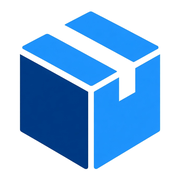
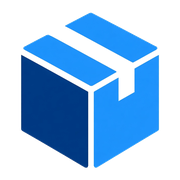
deploy: bd4a1fd8d03b22f38013a11d6f9fdf825d6175cc

diff --git a/index.html b/index.html
@@ -1,4 +1,4 @@
-<!DOCTYPE html><html lang="fr" data-astro-cid-sckkx6r4> <head><script type="module" src="https://unpkg.com/@fluentui/web-components@beta"></script><meta charset="UTF-8"><meta name="viewport" content="width=device-width"><link rel="icon" type="image/svg+xml" href="/favicon.svg"><link rel="icon" type="image/png" sizes="32x32" href="/favicon-32x32.png"><link rel="icon" type="image/png" sizes="16x16" href="/favicon-16x16.png"><link rel="apple-touch-icon" sizes="180x180" href="/apple-touch-icon.png"><meta name="generator" content="Astro v5.10.1"><title>Kits365 — Kits Power Platform pour TPE/PME</title><link rel="stylesheet" href="https://cdnjs.cloudflare.com/ajax/libs/font-awesome/6.5.1/css/all.min.css" integrity="sha512-DTOQO9RWCH3ppGqcWaEA1BIZOC6xxalwEsw9c2QQeAIftl+Vegovlnee1c9QX4TctnWMn13TZye+giMm8e2LwA==" crossorigin="anonymous" referrerPolicy="no-referrer"><link rel="stylesheet" href="/_astro/index.Ckoww14f.css">
+<!DOCTYPE html><html lang="fr" data-astro-cid-sckkx6r4> <head><script type="module" src="https://unpkg.com/@fluentui/web-components@beta"></script><meta charset="UTF-8"><meta name="viewport" content="width=device-width"><link rel="icon" type="image/svg+xml" href="/favicon.svg?v=2"><link rel="icon" type="image/png" sizes="32x32" href="/favicon-32x32.png?v=2"><link rel="icon" type="image/png" sizes="16x16" href="/favicon-16x16.png?v=2"><link rel="apple-touch-icon" sizes="180x180" href="/apple-touch-icon.png?v=2"><meta name="generator" content="Astro v5.10.1"><title>Kits365 — Kits Power Platform pour TPE/PME</title><link rel="stylesheet" href="https://cdnjs.cloudflare.com/ajax/libs/font-awesome/6.5.1/css/all.min.css" integrity="sha512-DTOQO9RWCH3ppGqcWaEA1BIZOC6xxalwEsw9c2QQeAIftl+Vegovlnee1c9QX4TctnWMn13TZye+giMm8e2LwA==" crossorigin="anonymous" referrerPolicy="no-referrer"><link rel="stylesheet" href="/_astro/index.Ckoww14f.css">
 <style>#background[data-astro-cid-mmc7otgs]{position:fixed;top:0;left:0;width:100%;height:100%;z-index:-1;filter:blur(100px)}#container[data-astro-cid-mmc7otgs]{font-family:Inter,Roboto,Helvetica Neue,Arial Nova,Nimbus Sans,Arial,sans-serif;height:100%}main[data-astro-cid-mmc7otgs]{height:100%;display:flex;justify-content:center}#hero[data-astro-cid-mmc7otgs]{display:flex;align-items:start;flex-direction:column;justify-content:center;padding:16px}h1[data-astro-cid-mmc7otgs]{font-size:22px;margin-top:.25em}#links[data-astro-cid-mmc7otgs]{display:flex;gap:16px}#links[data-astro-cid-mmc7otgs] a[data-astro-cid-mmc7otgs]{display:flex;align-items:center;padding:10px 12px;color:#111827;text-decoration:none;transition:color .2s}#links[data-astro-cid-mmc7otgs] a[data-astro-cid-mmc7otgs]:hover{color:#4e5056}#links[data-astro-cid-mmc7otgs] a[data-astro-cid-mmc7otgs] svg[data-astro-cid-mmc7otgs]{height:1em;margin-left:8px}#links[data-astro-cid-mmc7otgs] a[data-astro-cid-mmc7otgs].button{color:#fff;background:linear-gradient(83.21deg,#3245ff,#bc52ee);box-shadow:inset 0 0 0 1px #ffffff1f,inset 0 -2px #0000003d;border-radius:10px}#links[data-astro-cid-mmc7otgs] a[data-astro-cid-mmc7otgs].button:hover{color:#e6e6e6;box-shadow:none}pre[data-astro-cid-mmc7otgs]{font-family:ui-monospace,Cascadia Code,Source Code Pro,Menlo,Consolas,DejaVu Sans Mono,monospace;font-weight:400;background:linear-gradient(14deg,#d83333,#f041ff);-webkit-background-clip:text;-webkit-text-fill-color:transparent;background-clip:text;margin:0}h2[data-astro-cid-mmc7otgs]{margin:0 0 1em;font-weight:400;color:#111827;font-size:20px}p[data-astro-cid-mmc7otgs]{color:#4b5563;font-size:16px;line-height:24px;letter-spacing:-.006em;margin:0}code[data-astro-cid-mmc7otgs]{display:inline-block;background:linear-gradient(66.77deg,#f3cddd,#f5cee7) padding-box,linear-gradient(155deg,#d83333,#f041ff 18%,#f5cee7 45%) border-box;border-radius:8px;border:1px solid transparent;padding:6px 8px}.box[data-astro-cid-mmc7otgs]{padding:16px;background:#fff;border-radius:16px;border:1px solid white}#news[data-astro-cid-mmc7otgs]{position:absolute;bottom:16px;right:16px;max-width:300px;text-decoration:none;transition:background .2s;backdrop-filter:blur(50px)}#news[data-astro-cid-mmc7otgs]:hover{background:#ffffff8c}@media screen and (max-height: 368px){#news[data-astro-cid-mmc7otgs]{display:none}}@media screen and (max-width: 768px){#container[data-astro-cid-mmc7otgs]{display:flex;flex-direction:column}#hero[data-astro-cid-mmc7otgs]{display:block;padding-top:10%}#links[data-astro-cid-mmc7otgs]{flex-wrap:wrap}#links[data-astro-cid-mmc7otgs] a[data-astro-cid-mmc7otgs].button{padding:14px 18px}#news[data-astro-cid-mmc7otgs]{right:16px;left:16px;bottom:2.5rem;max-width:100%}h1[data-astro-cid-mmc7otgs]{line-height:1.5}}
 </style></head> <body data-astro-cid-sckkx6r4> <header class="bg-gray-800 text-white py-4" data-astro-cid-3ef6ksr2> <div class="container mx-auto px-4 flex justify-between items-center" data-astro-cid-3ef6ksr2> <div class="text-sm" data-astro-cid-3ef6ksr2> <a href="https://www.linkedin.com/company/141753953/" target="_blank" class="hover:underline" data-astro-cid-3ef6ksr2>Suivez-nous sur LinkedIn</a> </div> <div data-astro-cid-3ef6ksr2> <a href="mailto:contact@kits365.fr" class="text-white font-medium mr-4" data-astro-cid-3ef6ksr2>Contact</a> <a href="/projects" class="text-white font-medium" data-astro-cid-3ef6ksr2>Nos kits</a> </div> </div> </header>   <div class="min-h-screen bg-gray-50" data-astro-cid-mmc7otgs> <!-- Hero Section - Full Width --> <section class="w-full bg-white shadow-sm" data-astro-cid-mmc7otgs> <div class="container mx-auto px-4 py-16 md:py-24" data-astro-cid-mmc7otgs> <div class="max-w-3xl mx-auto text-center" data-astro-cid-mmc7otgs> <h1 class="text-4xl md:text-5xl font-bold text-gray-900 mb-4" data-astro-cid-mmc7otgs>Kits365</h1> <p class="text-xl text-gray-600" data-astro-cid-mmc7otgs>Kits Power Platform pour TPE/PME</p> </div> </div> </section> <!-- Skills Section - Alternate Background --> <section class="w-full bg-gray-100" data-astro-cid-mmc7otgs> <div class="container mx-auto px-4 py-16" data-astro-cid-mmc7otgs> <h2 class="text-2xl md:text-3xl font-bold text-gray-900 mb-8 text-center" data-astro-cid-mmc7otgs>Microsoft Expertise</h2> <div class="grid grid-cols-1 md:grid-cols-2 lg:grid-cols-4 gap-6 max-w-6xl mx-auto" data-astro-cid-mmc7otgs> <div class="bg-white p-6 rounded-lg shadow-sm" data-astro-cid-mmc7otgs> <h3 class="font-semibold text-lg text-gray-900 mb-2" data-astro-cid-mmc7otgs>Fabric</h3> <p class="text-gray-600" data-astro-cid-mmc7otgs>Data analytics and business intelligence</p> </div> <div class="bg-white p-6 rounded-lg shadow-sm" data-astro-cid-mmc7otgs> <h3 class="font-semibold text-lg text-gray-900 mb-2" data-astro-cid-mmc7otgs>Power Automate</h3> <p class="text-gray-600" data-astro-cid-mmc7otgs>Business automation</p> </div> <div class="bg-white p-6 rounded-lg shadow-sm" data-astro-cid-mmc7otgs> <h3 class="font-semibold text-lg text-gray-900 mb-2" data-astro-cid-mmc7otgs>Power Apps</h3> <p class="text-gray-600" data-astro-cid-mmc7otgs>App development</p> </div> <div class="bg-white p-6 rounded-lg shadow-sm" data-astro-cid-mmc7otgs> <h3 class="font-semibold text-lg text-gray-900 mb-2" data-astro-cid-mmc7otgs>SharePoint</h3> <p class="text-gray-600" data-astro-cid-mmc7otgs>Content management and collaboration</p> </div> </div> </div> </section> <!-- Projects Section --> <section class="w-full bg-white" data-astro-cid-mmc7otgs> <div class="container mx-auto px-4 py-16" data-astro-cid-mmc7otgs> <h2 class="text-2xl md:text-3xl font-bold text-gray-900 mb-8 text-center" data-astro-cid-mmc7otgs>Kits phares</h2> <div class="grid grid-cols-1 md:grid-cols-2 lg:grid-cols-3 gap-8 max-w-6xl mx-auto" data-astro-cid-mmc7otgs> <div class="bg-gray-50 rounded-lg overflow-hidden shadow-sm hover:shadow-md transition duration-300" data-astro-cid-mmc7otgs> <div class="h-48 bg-gray-200" data-astro-cid-mmc7otgs> <img src="../../public/project-cover.jpg" alt="Power Apps Onboarding App for HR" class="w-full h-full object-cover" data-astro-cid-mmc7otgs> </div> <div class="p-6" data-astro-cid-mmc7otgs> <h3 class="font-semibold text-lg text-gray-900 mb-2" data-astro-cid-mmc7otgs>Power Apps Onboarding App for HR</h3> <p class="text-gray-600 mb-6" data-astro-cid-mmc7otgs>Streamlined onboarding process for new hires using a Power Apps solution, integrated with Power Aut...</p> <div class="flex flex-wrap gap-2 mb-4" data-astro-cid-mmc7otgs> <span class="px-3 py-1 bg-blue-100 text-blue-600 rounded-full text-sm whitespace-nowrap" data-astro-cid-mmc7otgs> Power Apps </span><span class="px-3 py-1 bg-blue-100 text-blue-600 rounded-full text-sm whitespace-nowrap" data-astro-cid-mmc7otgs> Power Automate </span><span class="px-3 py-1 bg-blue-100 text-blue-600 rounded-full text-sm whitespace-nowrap" data-astro-cid-mmc7otgs> SharePoint </span> <span class="px-3 py-1 bg-gray-200 text-gray-600 rounded-full text-sm" data-astro-cid-mmc7otgs>
 +2 </span> </div> <a href="/projects/power-apps-onboarding-app-for-hr" class="mt-4 inline-block text-blue-600 hover:text-blue-700 font-medium" data-astro-cid-mmc7otgs>

diff --git a/projects/index.html b/projects/index.html
@@ -1,4 +1,4 @@
-<!DOCTYPE html><html lang="fr" data-astro-cid-sckkx6r4> <head><script type="module" src="https://unpkg.com/@fluentui/web-components@beta"></script><meta charset="UTF-8"><meta name="viewport" content="width=device-width"><link rel="icon" type="image/svg+xml" href="/favicon.svg"><link rel="icon" type="image/png" sizes="32x32" href="/favicon-32x32.png"><link rel="icon" type="image/png" sizes="16x16" href="/favicon-16x16.png"><link rel="apple-touch-icon" sizes="180x180" href="/apple-touch-icon.png"><meta name="generator" content="Astro v5.10.1"><title>Kits365 — Kits Power Platform pour TPE/PME</title><link rel="stylesheet" href="https://cdnjs.cloudflare.com/ajax/libs/font-awesome/6.5.1/css/all.min.css" integrity="sha512-DTOQO9RWCH3ppGqcWaEA1BIZOC6xxalwEsw9c2QQeAIftl+Vegovlnee1c9QX4TctnWMn13TZye+giMm8e2LwA==" crossorigin="anonymous" referrerPolicy="no-referrer"><link rel="stylesheet" href="/_astro/index.Ckoww14f.css"></head> <body data-astro-cid-sckkx6r4> <header class="bg-gray-800 text-white py-4" data-astro-cid-3ef6ksr2> <div class="container mx-auto px-4 flex justify-between items-center" data-astro-cid-3ef6ksr2> <div class="text-sm" data-astro-cid-3ef6ksr2> <a href="https://www.linkedin.com/company/141753953/" target="_blank" class="hover:underline" data-astro-cid-3ef6ksr2>Suivez-nous sur LinkedIn</a> </div> <div data-astro-cid-3ef6ksr2> <a href="mailto:contact@kits365.fr" class="text-white font-medium mr-4" data-astro-cid-3ef6ksr2>Contact</a> <a href="/projects" class="text-white font-medium" data-astro-cid-3ef6ksr2>Nos kits</a> </div> </div> </header>   <section class="w-full bg-white"> <div class="container mx-auto px-4 py-16"> <h2 class="text-2xl md:text-3xl font-bold text-gray-900 mb-8 text-center">My projects</h2> <div class="grid grid-cols-1 gap-8 max-w-6xl mx-auto"> <div class="bg-gray-50 rounded-lg overflow-hidden shadow-sm hover:shadow-md transition duration-300"> <div class="flex flex-col md:flex-row"> <div class="w-full md:w-80 min-w-[10rem] h-48 md:h-auto"> <img src="../../public/project-cover.jpg" alt="Power Apps Onboarding App for HR" class="w-full h-full object-cover"> </div> <div class="w-full md:w-auto p-6"> <h3 class="font-semibold text-lg text-gray-900 mb-2">Power Apps Onboarding App for HR</h3> <p class="text-gray-600 mb-6">Streamlined onboarding process for new hires using a Power Apps solution, integrated with Power Aut...</p> <div class="flex flex-wrap gap-2 mb-4"> <span class="px-3 py-1 bg-blue-100 text-blue-600 rounded-full text-sm whitespace-nowrap"> Power Apps </span><span class="px-3 py-1 bg-blue-100 text-blue-600 rounded-full text-sm whitespace-nowrap"> Power Automate </span><span class="px-3 py-1 bg-blue-100 text-blue-600 rounded-full text-sm whitespace-nowrap"> SharePoint </span> <span class="px-3 py-1 bg-gray-200 text-gray-600 rounded-full text-sm">
+<!DOCTYPE html><html lang="fr" data-astro-cid-sckkx6r4> <head><script type="module" src="https://unpkg.com/@fluentui/web-components@beta"></script><meta charset="UTF-8"><meta name="viewport" content="width=device-width"><link rel="icon" type="image/svg+xml" href="/favicon.svg?v=2"><link rel="icon" type="image/png" sizes="32x32" href="/favicon-32x32.png?v=2"><link rel="icon" type="image/png" sizes="16x16" href="/favicon-16x16.png?v=2"><link rel="apple-touch-icon" sizes="180x180" href="/apple-touch-icon.png?v=2"><meta name="generator" content="Astro v5.10.1"><title>Kits365 — Kits Power Platform pour TPE/PME</title><link rel="stylesheet" href="https://cdnjs.cloudflare.com/ajax/libs/font-awesome/6.5.1/css/all.min.css" integrity="sha512-DTOQO9RWCH3ppGqcWaEA1BIZOC6xxalwEsw9c2QQeAIftl+Vegovlnee1c9QX4TctnWMn13TZye+giMm8e2LwA==" crossorigin="anonymous" referrerPolicy="no-referrer"><link rel="stylesheet" href="/_astro/index.Ckoww14f.css"></head> <body data-astro-cid-sckkx6r4> <header class="bg-gray-800 text-white py-4" data-astro-cid-3ef6ksr2> <div class="container mx-auto px-4 flex justify-between items-center" data-astro-cid-3ef6ksr2> <div class="text-sm" data-astro-cid-3ef6ksr2> <a href="https://www.linkedin.com/company/141753953/" target="_blank" class="hover:underline" data-astro-cid-3ef6ksr2>Suivez-nous sur LinkedIn</a> </div> <div data-astro-cid-3ef6ksr2> <a href="mailto:contact@kits365.fr" class="text-white font-medium mr-4" data-astro-cid-3ef6ksr2>Contact</a> <a href="/projects" class="text-white font-medium" data-astro-cid-3ef6ksr2>Nos kits</a> </div> </div> </header>   <section class="w-full bg-white"> <div class="container mx-auto px-4 py-16"> <h2 class="text-2xl md:text-3xl font-bold text-gray-900 mb-8 text-center">My projects</h2> <div class="grid grid-cols-1 gap-8 max-w-6xl mx-auto"> <div class="bg-gray-50 rounded-lg overflow-hidden shadow-sm hover:shadow-md transition duration-300"> <div class="flex flex-col md:flex-row"> <div class="w-full md:w-80 min-w-[10rem] h-48 md:h-auto"> <img src="../../public/project-cover.jpg" alt="Power Apps Onboarding App for HR" class="w-full h-full object-cover"> </div> <div class="w-full md:w-auto p-6"> <h3 class="font-semibold text-lg text-gray-900 mb-2">Power Apps Onboarding App for HR</h3> <p class="text-gray-600 mb-6">Streamlined onboarding process for new hires using a Power Apps solution, integrated with Power Aut...</p> <div class="flex flex-wrap gap-2 mb-4"> <span class="px-3 py-1 bg-blue-100 text-blue-600 rounded-full text-sm whitespace-nowrap"> Power Apps </span><span class="px-3 py-1 bg-blue-100 text-blue-600 rounded-full text-sm whitespace-nowrap"> Power Automate </span><span class="px-3 py-1 bg-blue-100 text-blue-600 rounded-full text-sm whitespace-nowrap"> SharePoint </span> <span class="px-3 py-1 bg-gray-200 text-gray-600 rounded-full text-sm">
 +2 </span> </div> <a href="/projects/power-apps-onboarding-app-for-hr" class="mt-4 inline-block text-blue-600 hover:text-blue-700 font-medium">
 View Project →
 </a> </div> </div> </div><div class="bg-gray-50 rounded-lg overflow-hidden shadow-sm hover:shadow-md transition duration-300"> <div class="flex flex-col md:flex-row"> <div class="w-full md:w-80 min-w-[10rem] h-48 md:h-auto"> <img src="../../public/project-cover.jpg" alt="Project Two" class="w-full h-full object-cover"> </div> <div class="w-full md:w-auto p-6"> <h3 class="font-semibold text-lg text-gray-900 mb-2">Project Two</h3> <p class="text-gray-600 mb-6">This project involves the development of a comprehensive onboarding application built on the Micros...</p> <div class="flex flex-wrap gap-2 mb-4"> <span class="px-3 py-1 bg-blue-100 text-blue-600 rounded-full text-sm whitespace-nowrap"> SharePoint </span><span class="px-3 py-1 bg-blue-100 text-blue-600 rounded-full text-sm whitespace-nowrap"> Node.js </span><span class="px-3 py-1 bg-blue-100 text-blue-600 rounded-full text-sm whitespace-nowrap"> Express </span>  </div> <a href="/projects/project2-copy" class="mt-4 inline-block text-blue-600 hover:text-blue-700 font-medium">

diff --git a/projects/project2-copy/index.html b/projects/project2-copy/index.html
@@ -1,4 +1,4 @@
-<!DOCTYPE html><html lang="fr" data-astro-cid-sckkx6r4> <head><script type="module" src="https://unpkg.com/@fluentui/web-components@beta"></script><meta charset="UTF-8"><meta name="viewport" content="width=device-width"><link rel="icon" type="image/svg+xml" href="/favicon.svg"><link rel="icon" type="image/png" sizes="32x32" href="/favicon-32x32.png"><link rel="icon" type="image/png" sizes="16x16" href="/favicon-16x16.png"><link rel="apple-touch-icon" sizes="180x180" href="/apple-touch-icon.png"><meta name="generator" content="Astro v5.10.1"><title>Kits365 — Kits Power Platform pour TPE/PME</title><link rel="stylesheet" href="https://cdnjs.cloudflare.com/ajax/libs/font-awesome/6.5.1/css/all.min.css" integrity="sha512-DTOQO9RWCH3ppGqcWaEA1BIZOC6xxalwEsw9c2QQeAIftl+Vegovlnee1c9QX4TctnWMn13TZye+giMm8e2LwA==" crossorigin="anonymous" referrerPolicy="no-referrer"><link rel="stylesheet" href="/_astro/index.Ckoww14f.css"></head> <body data-astro-cid-sckkx6r4> <header class="bg-gray-800 text-white py-4" data-astro-cid-3ef6ksr2> <div class="container mx-auto px-4 flex justify-between items-center" data-astro-cid-3ef6ksr2> <div class="text-sm" data-astro-cid-3ef6ksr2> <a href="https://www.linkedin.com/company/141753953/" target="_blank" class="hover:underline" data-astro-cid-3ef6ksr2>Suivez-nous sur LinkedIn</a> </div> <div data-astro-cid-3ef6ksr2> <a href="mailto:contact@kits365.fr" class="text-white font-medium mr-4" data-astro-cid-3ef6ksr2>Contact</a> <a href="/projects" class="text-white font-medium" data-astro-cid-3ef6ksr2>Nos kits</a> </div> </div> </header>   <div class="container mx-auto px-4 py-16 prose lg:prose-lg"> <h1 class="text-4xl font-bold text-gray-900 mb-4"> Project Two </h1> <p class="text-gray-600 mb-4">
+<!DOCTYPE html><html lang="fr" data-astro-cid-sckkx6r4> <head><script type="module" src="https://unpkg.com/@fluentui/web-components@beta"></script><meta charset="UTF-8"><meta name="viewport" content="width=device-width"><link rel="icon" type="image/svg+xml" href="/favicon.svg?v=2"><link rel="icon" type="image/png" sizes="32x32" href="/favicon-32x32.png?v=2"><link rel="icon" type="image/png" sizes="16x16" href="/favicon-16x16.png?v=2"><link rel="apple-touch-icon" sizes="180x180" href="/apple-touch-icon.png?v=2"><meta name="generator" content="Astro v5.10.1"><title>Kits365 — Kits Power Platform pour TPE/PME</title><link rel="stylesheet" href="https://cdnjs.cloudflare.com/ajax/libs/font-awesome/6.5.1/css/all.min.css" integrity="sha512-DTOQO9RWCH3ppGqcWaEA1BIZOC6xxalwEsw9c2QQeAIftl+Vegovlnee1c9QX4TctnWMn13TZye+giMm8e2LwA==" crossorigin="anonymous" referrerPolicy="no-referrer"><link rel="stylesheet" href="/_astro/index.Ckoww14f.css"></head> <body data-astro-cid-sckkx6r4> <header class="bg-gray-800 text-white py-4" data-astro-cid-3ef6ksr2> <div class="container mx-auto px-4 flex justify-between items-center" data-astro-cid-3ef6ksr2> <div class="text-sm" data-astro-cid-3ef6ksr2> <a href="https://www.linkedin.com/company/141753953/" target="_blank" class="hover:underline" data-astro-cid-3ef6ksr2>Suivez-nous sur LinkedIn</a> </div> <div data-astro-cid-3ef6ksr2> <a href="mailto:contact@kits365.fr" class="text-white font-medium mr-4" data-astro-cid-3ef6ksr2>Contact</a> <a href="/projects" class="text-white font-medium" data-astro-cid-3ef6ksr2>Nos kits</a> </div> </div> </header>   <div class="container mx-auto px-4 py-16 prose lg:prose-lg"> <h1 class="text-4xl font-bold text-gray-900 mb-4"> Project Two </h1> <p class="text-gray-600 mb-4">
 Published: 11/15/2023 </p> <img src="../../public/project-cover.jpg" alt="Project Two" class="w-full h-64 object-cover rounded-md mb-6"> <p class="text-gray-700 mb-6"> This project involves the development of a comprehensive onboarding application built on the Microsoft Power Platform, specifically using Power Apps, Power Automate, and SharePoint. The goal is to modernize and streamline the onboarding experience for new hires within the HR department, reducing manual tasks and increasing efficiency. </p> <div class="mb-6"> <a href="https://github.com/my-user/project-two" target="_blank" class="inline-block bg-blue-500 hover:bg-blue-700 text-white font-bold py-2 px-4 rounded">
 View on Github
 </a> </div> <div class="prose

diff --git a/projects/project2/index.html b/projects/project2/index.html
@@ -1,4 +1,4 @@
-<!DOCTYPE html><html lang="fr" data-astro-cid-sckkx6r4> <head><script type="module" src="https://unpkg.com/@fluentui/web-components@beta"></script><meta charset="UTF-8"><meta name="viewport" content="width=device-width"><link rel="icon" type="image/svg+xml" href="/favicon.svg"><link rel="icon" type="image/png" sizes="32x32" href="/favicon-32x32.png"><link rel="icon" type="image/png" sizes="16x16" href="/favicon-16x16.png"><link rel="apple-touch-icon" sizes="180x180" href="/apple-touch-icon.png"><meta name="generator" content="Astro v5.10.1"><title>Kits365 — Kits Power Platform pour TPE/PME</title><link rel="stylesheet" href="https://cdnjs.cloudflare.com/ajax/libs/font-awesome/6.5.1/css/all.min.css" integrity="sha512-DTOQO9RWCH3ppGqcWaEA1BIZOC6xxalwEsw9c2QQeAIftl+Vegovlnee1c9QX4TctnWMn13TZye+giMm8e2LwA==" crossorigin="anonymous" referrerPolicy="no-referrer"><link rel="stylesheet" href="/_astro/index.Ckoww14f.css"></head> <body data-astro-cid-sckkx6r4> <header class="bg-gray-800 text-white py-4" data-astro-cid-3ef6ksr2> <div class="container mx-auto px-4 flex justify-between items-center" data-astro-cid-3ef6ksr2> <div class="text-sm" data-astro-cid-3ef6ksr2> <a href="https://www.linkedin.com/company/141753953/" target="_blank" class="hover:underline" data-astro-cid-3ef6ksr2>Suivez-nous sur LinkedIn</a> </div> <div data-astro-cid-3ef6ksr2> <a href="mailto:contact@kits365.fr" class="text-white font-medium mr-4" data-astro-cid-3ef6ksr2>Contact</a> <a href="/projects" class="text-white font-medium" data-astro-cid-3ef6ksr2>Nos kits</a> </div> </div> </header>   <div class="container mx-auto px-4 py-16 prose lg:prose-lg"> <h1 class="text-4xl font-bold text-gray-900 mb-4"> Project Two </h1> <p class="text-gray-600 mb-4">
+<!DOCTYPE html><html lang="fr" data-astro-cid-sckkx6r4> <head><script type="module" src="https://unpkg.com/@fluentui/web-components@beta"></script><meta charset="UTF-8"><meta name="viewport" content="width=device-width"><link rel="icon" type="image/svg+xml" href="/favicon.svg?v=2"><link rel="icon" type="image/png" sizes="32x32" href="/favicon-32x32.png?v=2"><link rel="icon" type="image/png" sizes="16x16" href="/favicon-16x16.png?v=2"><link rel="apple-touch-icon" sizes="180x180" href="/apple-touch-icon.png?v=2"><meta name="generator" content="Astro v5.10.1"><title>Kits365 — Kits Power Platform pour TPE/PME</title><link rel="stylesheet" href="https://cdnjs.cloudflare.com/ajax/libs/font-awesome/6.5.1/css/all.min.css" integrity="sha512-DTOQO9RWCH3ppGqcWaEA1BIZOC6xxalwEsw9c2QQeAIftl+Vegovlnee1c9QX4TctnWMn13TZye+giMm8e2LwA==" crossorigin="anonymous" referrerPolicy="no-referrer"><link rel="stylesheet" href="/_astro/index.Ckoww14f.css"></head> <body data-astro-cid-sckkx6r4> <header class="bg-gray-800 text-white py-4" data-astro-cid-3ef6ksr2> <div class="container mx-auto px-4 flex justify-between items-center" data-astro-cid-3ef6ksr2> <div class="text-sm" data-astro-cid-3ef6ksr2> <a href="https://www.linkedin.com/company/141753953/" target="_blank" class="hover:underline" data-astro-cid-3ef6ksr2>Suivez-nous sur LinkedIn</a> </div> <div data-astro-cid-3ef6ksr2> <a href="mailto:contact@kits365.fr" class="text-white font-medium mr-4" data-astro-cid-3ef6ksr2>Contact</a> <a href="/projects" class="text-white font-medium" data-astro-cid-3ef6ksr2>Nos kits</a> </div> </div> </header>   <div class="container mx-auto px-4 py-16 prose lg:prose-lg"> <h1 class="text-4xl font-bold text-gray-900 mb-4"> Project Two </h1> <p class="text-gray-600 mb-4">
 Published: 11/15/2023 </p> <img src="../../public/project-cover.jpg" alt="Project Two" class="w-full h-64 object-cover rounded-md mb-6"> <p class="text-gray-700 mb-6"> This project involves the development of a comprehensive onboarding application built on the Microsoft Power Platform, specifically using Power Apps, Power Automate, and SharePoint. The goal is to modernize and streamline the onboarding experience for new hires within the HR department, reducing manual tasks and increasing efficiency. </p> <div class="mb-6"> <a href="https://github.com/my-user/project-two" target="_blank" class="inline-block bg-blue-500 hover:bg-blue-700 text-white font-bold py-2 px-4 rounded">
 View on Github
 </a> </div> <div class="prose

diff --git a/projects/power-apps-onboarding-app-for-hr/index.html b/projects/power-apps-onboarding-app-for-hr/index.html
@@ -1,4 +1,4 @@
-<!DOCTYPE html><html lang="fr" data-astro-cid-sckkx6r4> <head><script type="module" src="https://unpkg.com/@fluentui/web-components@beta"></script><meta charset="UTF-8"><meta name="viewport" content="width=device-width"><link rel="icon" type="image/svg+xml" href="/favicon.svg"><link rel="icon" type="image/png" sizes="32x32" href="/favicon-32x32.png"><link rel="icon" type="image/png" sizes="16x16" href="/favicon-16x16.png"><link rel="apple-touch-icon" sizes="180x180" href="/apple-touch-icon.png"><meta name="generator" content="Astro v5.10.1"><title>Kits365 — Kits Power Platform pour TPE/PME</title><link rel="stylesheet" href="https://cdnjs.cloudflare.com/ajax/libs/font-awesome/6.5.1/css/all.min.css" integrity="sha512-DTOQO9RWCH3ppGqcWaEA1BIZOC6xxalwEsw9c2QQeAIftl+Vegovlnee1c9QX4TctnWMn13TZye+giMm8e2LwA==" crossorigin="anonymous" referrerPolicy="no-referrer"><link rel="stylesheet" href="/_astro/index.Ckoww14f.css"></head> <body data-astro-cid-sckkx6r4> <header class="bg-gray-800 text-white py-4" data-astro-cid-3ef6ksr2> <div class="container mx-auto px-4 flex justify-between items-center" data-astro-cid-3ef6ksr2> <div class="text-sm" data-astro-cid-3ef6ksr2> <a href="https://www.linkedin.com/company/141753953/" target="_blank" class="hover:underline" data-astro-cid-3ef6ksr2>Suivez-nous sur LinkedIn</a> </div> <div data-astro-cid-3ef6ksr2> <a href="mailto:contact@kits365.fr" class="text-white font-medium mr-4" data-astro-cid-3ef6ksr2>Contact</a> <a href="/projects" class="text-white font-medium" data-astro-cid-3ef6ksr2>Nos kits</a> </div> </div> </header>   <div class="container mx-auto px-4 py-16 prose lg:prose-lg"> <h1 class="text-4xl font-bold text-gray-900 mb-4"> Power Apps Onboarding App for HR </h1> <p class="text-gray-600 mb-4">
+<!DOCTYPE html><html lang="fr" data-astro-cid-sckkx6r4> <head><script type="module" src="https://unpkg.com/@fluentui/web-components@beta"></script><meta charset="UTF-8"><meta name="viewport" content="width=device-width"><link rel="icon" type="image/svg+xml" href="/favicon.svg?v=2"><link rel="icon" type="image/png" sizes="32x32" href="/favicon-32x32.png?v=2"><link rel="icon" type="image/png" sizes="16x16" href="/favicon-16x16.png?v=2"><link rel="apple-touch-icon" sizes="180x180" href="/apple-touch-icon.png?v=2"><meta name="generator" content="Astro v5.10.1"><title>Kits365 — Kits Power Platform pour TPE/PME</title><link rel="stylesheet" href="https://cdnjs.cloudflare.com/ajax/libs/font-awesome/6.5.1/css/all.min.css" integrity="sha512-DTOQO9RWCH3ppGqcWaEA1BIZOC6xxalwEsw9c2QQeAIftl+Vegovlnee1c9QX4TctnWMn13TZye+giMm8e2LwA==" crossorigin="anonymous" referrerPolicy="no-referrer"><link rel="stylesheet" href="/_astro/index.Ckoww14f.css"></head> <body data-astro-cid-sckkx6r4> <header class="bg-gray-800 text-white py-4" data-astro-cid-3ef6ksr2> <div class="container mx-auto px-4 flex justify-between items-center" data-astro-cid-3ef6ksr2> <div class="text-sm" data-astro-cid-3ef6ksr2> <a href="https://www.linkedin.com/company/141753953/" target="_blank" class="hover:underline" data-astro-cid-3ef6ksr2>Suivez-nous sur LinkedIn</a> </div> <div data-astro-cid-3ef6ksr2> <a href="mailto:contact@kits365.fr" class="text-white font-medium mr-4" data-astro-cid-3ef6ksr2>Contact</a> <a href="/projects" class="text-white font-medium" data-astro-cid-3ef6ksr2>Nos kits</a> </div> </div> </header>   <div class="container mx-auto px-4 py-16 prose lg:prose-lg"> <h1 class="text-4xl font-bold text-gray-900 mb-4"> Power Apps Onboarding App for HR </h1> <p class="text-gray-600 mb-4">
 Published: 12/15/2023 </p> <img src="../../public/project-cover.jpg" alt="Power Apps Onboarding App for HR" class="w-full h-64 object-cover rounded-md mb-6"> <p class="text-gray-700 mb-6"> Streamlined onboarding process for new hires using a Power Apps solution, integrated with Power Automate and SharePoint. </p> <div class="mb-6"> <a href="https://github.com/your-username/powerapps-onboarding-app" target="_blank" class="inline-block bg-blue-500 hover:bg-blue-700 text-white font-bold py-2 px-4 rounded">
 View on Github
 </a> </div> <div class="prose
